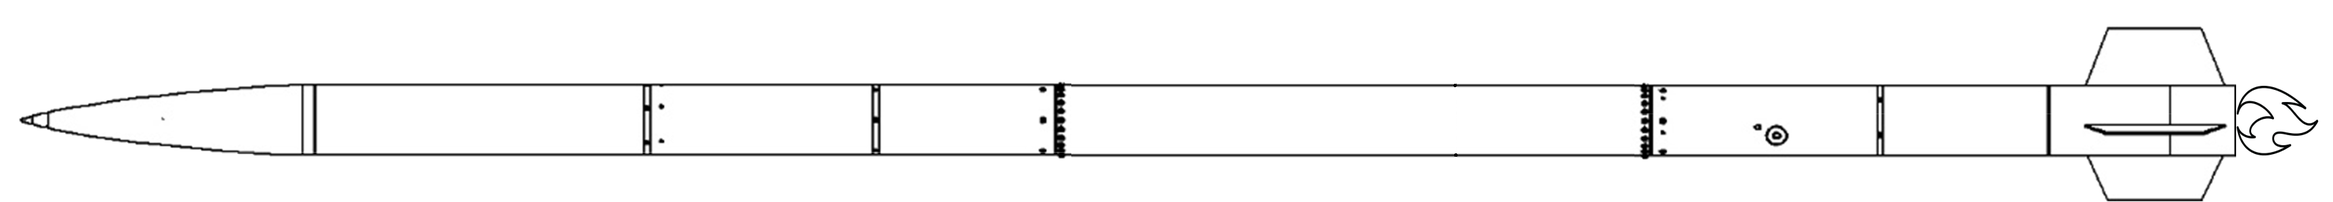
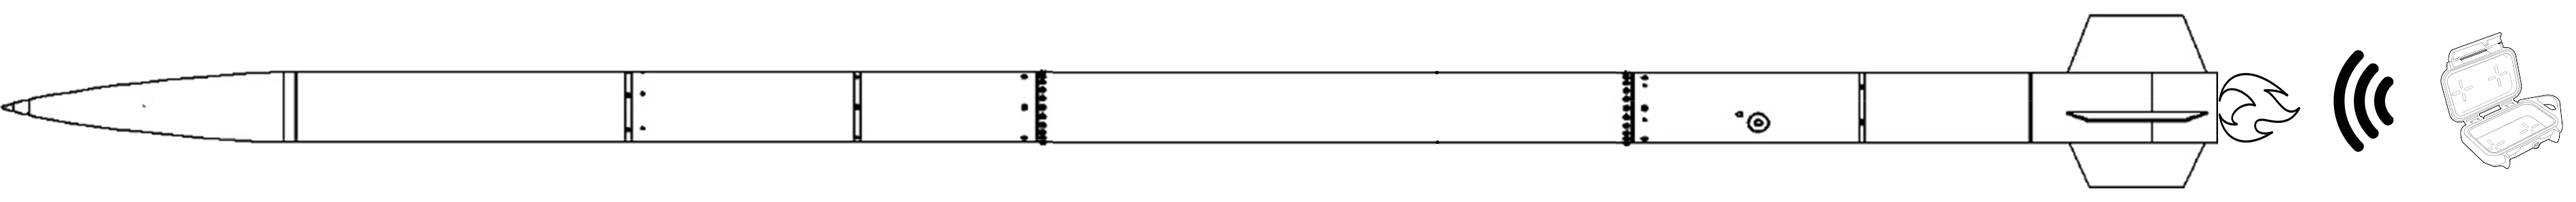
add rcls/ops subsystems

diff --git a/subsystems.html b/subsystems.html
@@ -16,13 +16,14 @@
             <!--- missing </li> tags to remove space between inline block elements -->
             <ul class="pull-left nav--left">
                 <a href="/">
-                <img class="banner__logo" src="images/banner_logo.png" />
+                <img class="banner__logo" src="images/banner_logo.png"/>
                 </a>
             </ul>
             <ul class="pull-right nav--right">
                 <li><a href="competition">COMPETITION</a>
                 <li><a href="sponsors">SPONSORS</a>
                 <li><a href="rockets">ROCKETS</a>
+                <li><a href="subsystems">SUBSYSTEMS</a>
                 <li><a href="team">TEAM</a>
                 <li><a href="awards">AWARDS</a>
                 <li><a href="events">EVENTS</a>
@@ -45,6 +46,8 @@
                 <div class="tab"> <p class="content-text">RECOVERY</p> </div>
                 <div class="tab"> <p class="content-text">PROPULSION</p> </div>
                 <div class="tab"> <p class="content-text">DAQ</p> </div>
+                <div class="tab"> <p class="content-text">RLCS</p> </div>
+                <div class="tab"> <p class="content-text">OPS</p> </div>
             </div>
         </div> 
         <div class = "subsystem_container active_container" id="airframe"> 
@@ -89,6 +92,20 @@
                 Lorem ipsum dolor sit amet, consectetur adipiscing elit, sed do eiusmod tempor incididunt ut labore et dolore magna aliqua. Ut enim ad minim veniam, quis nostrud exercitation ullamco laboris nisi ut aliquip ex ea commodo consequat. Duis aute irure dolor in reprehenderit in voluptate velit esse cillum dolore eu fugiat nulla pariatur. Excepteur sint occaecat cupidatat non proident, sunt in culpa qui officia deserunt mollit anim id est laborum."
             </p>
         </div>
+        <div class = "subsystem_container" id="rlcs">
+            <h2 class="content-title">REMOTE CONTROL LAUNCH SYSTEM</h2>
+            <hr>
+            <p class="content-text">
+                Lorem ipsum dolor sit amet, consectetur adipiscing elit, sed do eiusmod tempor incididunt ut labore et dolore magna aliqua. Ut enim ad minim veniam, quis nostrud exercitation ullamco laboris nisi ut aliquip ex ea commodo consequat. Duis aute irure dolor in reprehenderit in voluptate velit esse cillum dolore eu fugiat nulla pariatur. Excepteur sint occaecat cupidatat non proident, sunt in culpa qui officia deserunt mollit anim id est laborum."
+            </p>
+        </div>
+        <div class = "subsystem_container" id="ops">
+            <h2 class="content-title">OPERATIONS</h2>
+            <hr>
+            <p class="content-text">
+                Lorem ipsum dolor sit amet, consectetur adipiscing elit, sed do eiusmod tempor incididunt ut labore et dolore magna aliqua. Ut enim ad minim veniam, quis nostrud exercitation ullamco laboris nisi ut aliquip ex ea commodo consequat. Duis aute irure dolor in reprehenderit in voluptate velit esse cillum dolore eu fugiat nulla pariatur. Excepteur sint occaecat cupidatat non proident, sunt in culpa qui officia deserunt mollit anim id est laborum."
+            </p>
+        </div>
         <script>
             $('#toggle > div').click(function() {
                 $('#toggle > div').removeClass('active_tab');
@@ -101,6 +118,8 @@
                 $('#recovery').toggle( ix === 3 );
                 $('#propulsion').toggle( ix === 4 );
                 $('#daq').toggle( ix === 5 );
+                $('#rlcs').toggle( ix === 6 );
+                $('#ops').toggle( ix === 7 );
             });
         </script>
     </body>

diff --git a/css/subsystems.css b/css/subsystems.css
@@ -39,7 +39,6 @@
 
 #toggle{
 	margin: 1.5rem 0 0 1.5rem;
-	width: 97.4%;
 }
 
 #toggle :hover{
@@ -55,7 +54,7 @@
 	border: 1px solid lightgray;
 	border-bottom: none;
 	display: inline-block;
-	width: 15%;
+	width: 10%;
 	cursor: pointer;
 }
 
